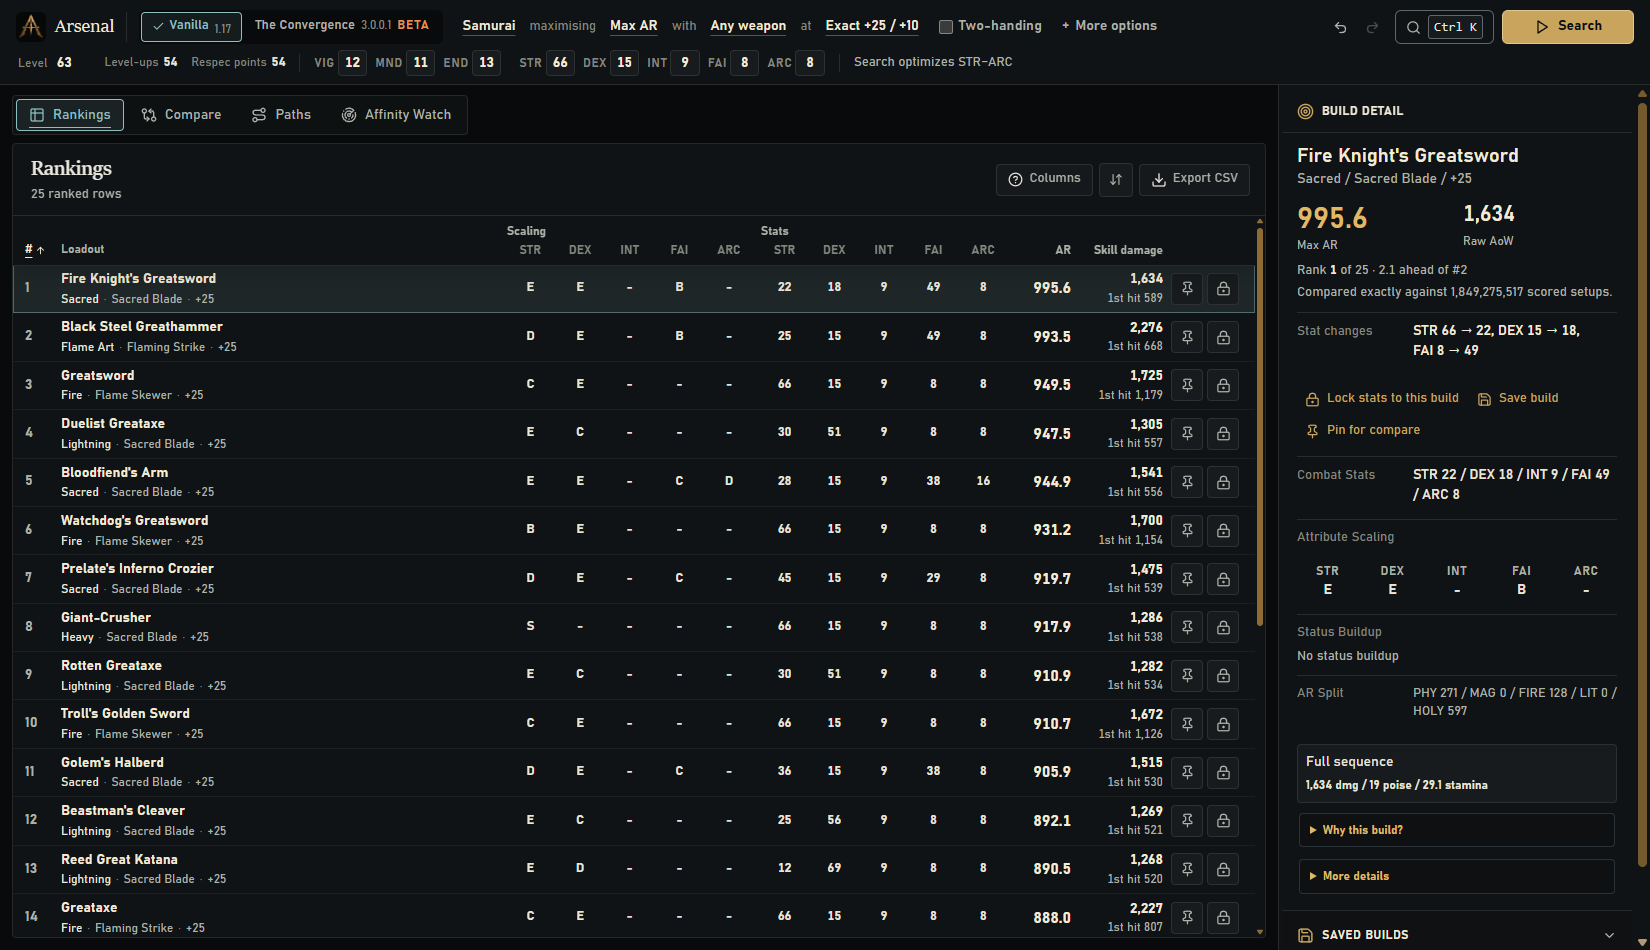
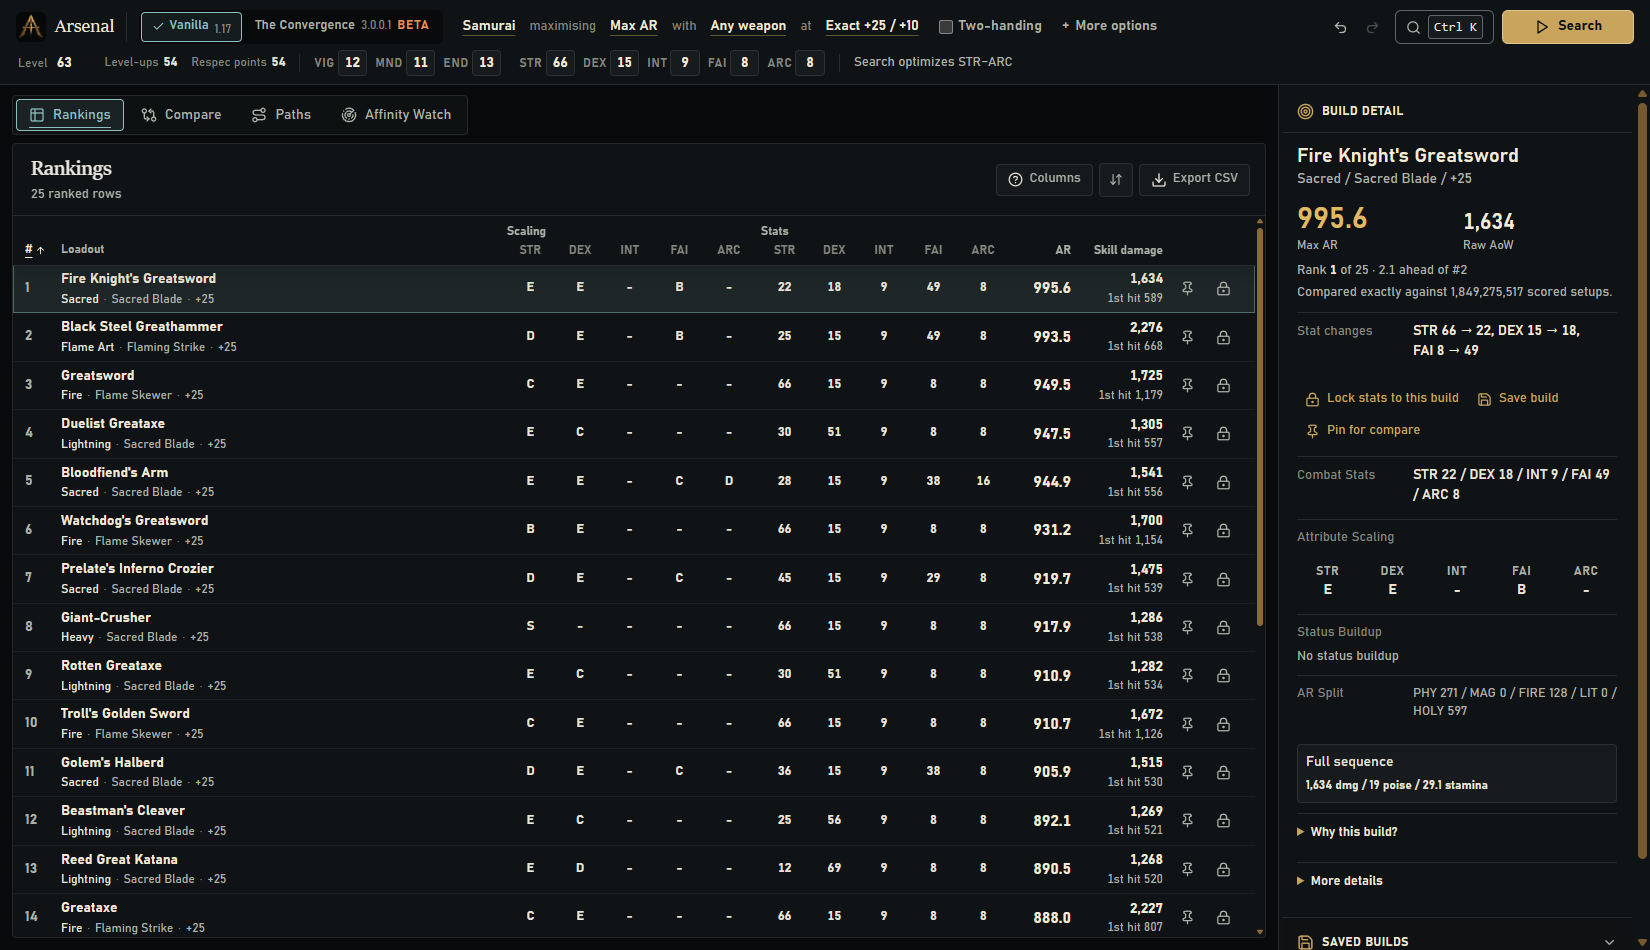
Document the screen refinements and refresh the README screenshots
The v0.18.0 release notes describe the shared fold, chart and empty-state
styles, the quiet row actions, Compare's single content edge, the palette
field, and the fixes for see-through lists and headings, grey recovery
buttons and unmapped attack poise.

The performance guide records the frame pacing of these changes against
the previous build on release builds launched normally over CDP: every
scenario matches within measurement noise.

Recaptured Rankings, Compare, Paths and Affinity Watch from the packaged
debug build with the same Samurai level 63 Max AR scenario, window size
and framing. Ranked rows show bare pin and lock icons, and Build Detail's
folds are plain rows. Ranked results and values are unchanged.

diff --git a/docs/performance.md b/docs/performance.md
@@ -348,6 +348,36 @@ Still short of one 240 Hz frame per step:
 - During a search, resize frames reach p95 8.4 ms and p99 12.5 ms: the optimizer's
   threads compete with the renderer for the CPU.
 
+### Visual refinement pass (2026-10-18)
+
+The pass that unified folds, empty states and chart frames, made searchable lists and
+Build Detail's heading opaque, and let ranked rows' action buttons rest without a box
+was measured the same way: release builds launched normally over CDP, frame intervals
+recorded untraced, Vanilla Samurai level 192 with 50 rows in a 1650x950 window. Before
+is `102db2f`, after adds the pass; four interleaved runs each, eight for the busy
+scenario, and the table gives the median of each run's statistic. Every build ran with
+`RAYON_NUM_THREADS=1`. The busy scenario starts an AoW First Hit search 0.3 s before a
+1650 to 1350 px resize sweep and a wheel scroll; the search lands during the sweep in
+every run, so its result render is included. Other work shared the CPU.
+
+| Scenario (Vanilla) | Before p50 / p95 / p99 / max, ms | After | Key p50 / p95, ms |
+| --- | --- | --- | --- |
+| Wheel and sort header clicks | 4.2 / 4.3 / 4.3 / ≤ 8.4 | 4.2 / 4.3 / 4.3 / ≤ 8.4 | - |
+| Row selection with Build Detail | 4.2 / 4.3 / 4.3 / 4.3 | 4.2 / 4.3 / 4.3 / 4.3 | - |
+| Ctrl+2 then Ctrl+1, six times | 4.2 / 4.3 / 4.3 / 20.9 | 4.2 / 4.3 / 4.3 / 16.6 | 6.8 / 8.0 → 6.5 / 8.1 |
+| Shortcut list open and close | 4.2 / 4.3 / 4.3 / 4.3 | 4.2 / 4.3 / 4.3 / 4.4 | 5.8 / 8.3 → 5.8 / 8.2 |
+| Editor popovers | 4.2 / 4.3 / 4.3 / 4.3 | 4.2 / 4.3 / 4.3 / 4.3 | 6.7 / 7.0 → 6.8 / 7.7 |
+| Palette and typing | 4.2 / 4.3 / 4.3 / 6.3 | 4.2 / 4.3 / 4.3 / 6.4 | 6.3 / 9.0 → 6.5 / 9.0 |
+| Window resize, 1650 to 1350 px and back | 4.2 / 4.3 / 8.4 / 12.6 | 4.2 / 4.3 / 8.4 / 12.5 | - |
+| Busy: resize and wheel as a search lands | 4.2 / 8.3 / 10.5 / 25.0 | 4.2 / 8.4 / 12.4 / 25.1 | - |
+
+The pass adds no element, layer or animation to a ranked row: the action buttons change
+only their resting border and background, and the other changes are static styles
+outside the board. Per-run busy p99 values spread from 8.4 to 16.6 ms in both builds. One
+after run of the busy scenario reached 62.4 ms where the results landed; the other seven
+after runs and all eight before runs peaked at 20.7 to 25.1 ms, so the landing render,
+which this pass does not change, stays the longest frame of that scenario.
+
 ## Release compiler settings
 
 Both Cargo packages set `lto = "thin"` and `codegen-units = 1` for release builds.

diff --git a/docs/release-notes/v0.18.0.md b/docs/release-notes/v0.18.0.md
@@ -46,7 +46,18 @@ for methods and limits.
 - Rankings replaces the always-open metric glossary with a **Columns** guide, and
   **Export CSV** asks for the row count when you export.
 - Build Detail keeps the answer on top and folds weapon poise, the stat budget,
-  and model notes into **More details**.
+  and model notes into **More details**. Its folds, and those in Compare, charts
+  and Saved Builds, share one style: a plain row with a gold marker instead of
+  boxed, uppercase or grey variants. The labels under its large figures line up.
+- Each ranked row's pin and lock buttons rest as bare icons and show their box when
+  pointed at, so a full board is not a column of outlined squares; a pinned row
+  keeps its mark.
+- Compare's filters, delta table and folds line up with its heading. The Paths chart
+  is titled like Affinity Watch's and says what it will show before its first
+  trace; before a first run, neither workspace shows an empty progress bar or a
+  table header without rows. Empty states set their heading like the charts do.
+- The command palette shows a search icon and marks its field with a focus line,
+  instead of a Mac command symbol and a second frame.
 - Compare, Paths, Affinity Watch, and AR / Bleed tradeoffs share one heading with a
   **How it works** link for their rules, and lose most of their boxed panels.
   Chart values sit in a **Data table** you open on demand.
@@ -91,6 +102,14 @@ for methods and limits.
 - Leaving Rankings cancels a running CSV export.
 - Pressing **Enter** in a searchable list, such as the skill picker, keeps the
   current choice instead of resetting it.
+- Searchable lists, such as Convergence's 28-entry class list, no longer let the
+  editor's buttons and notes show through them, and details scrolling under the
+  **Build detail** heading no longer show through it.
+- **Dismiss error**, **Run updated search** and the other recovery buttons use the
+  app's button style instead of the browser's grey default.
+- A weapon whose attack poise moves are not mapped, which includes every
+  Convergence weapon, says so under **More details** instead of listing None for
+  each attack.
 - Saved builds, backups, and imported builds keep only the fields the app knows;
   unknown fields are dropped instead of carried into later saves.
 - Black Steel Greathammer and Hookclaws skill poise values now include the game's
